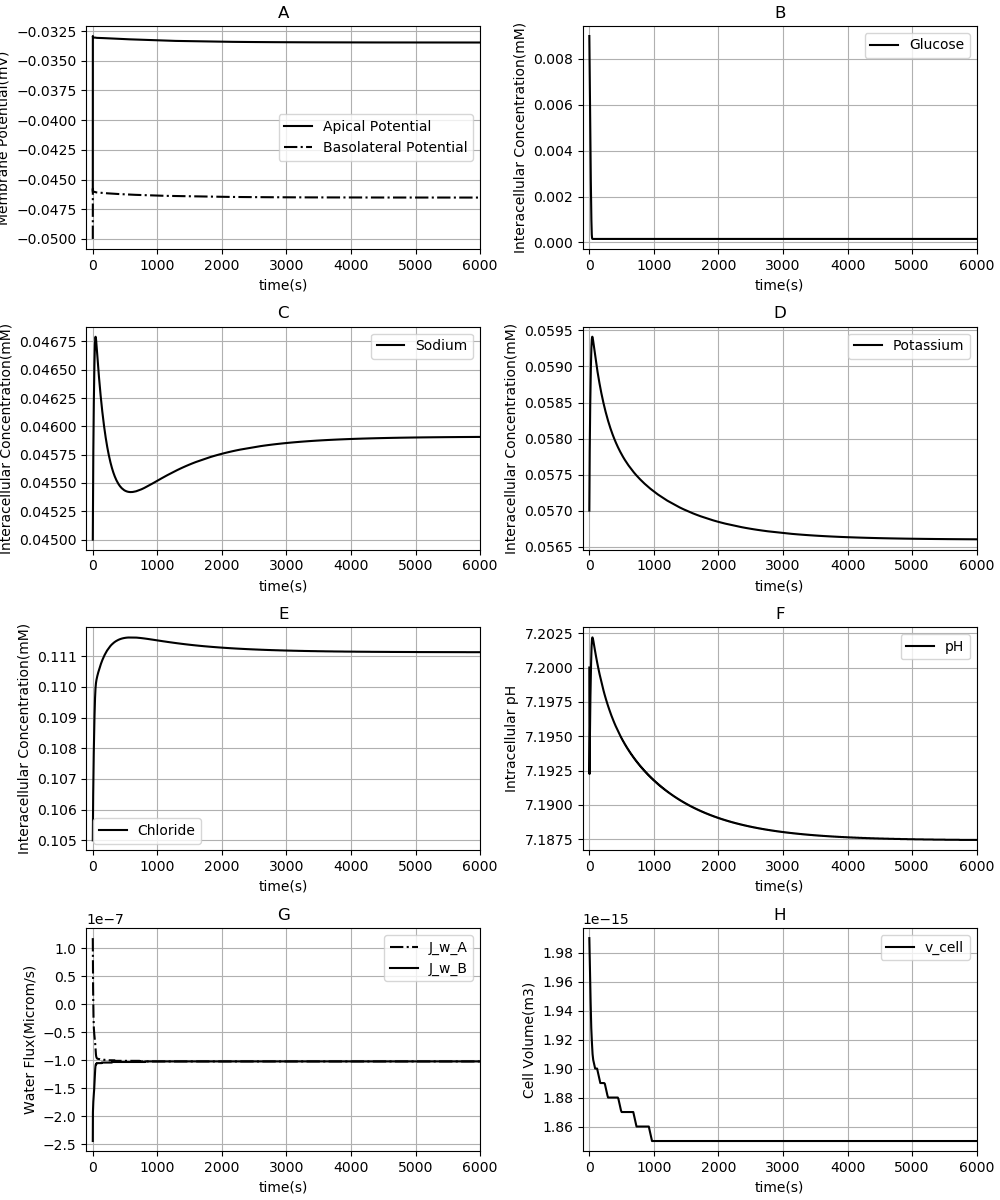
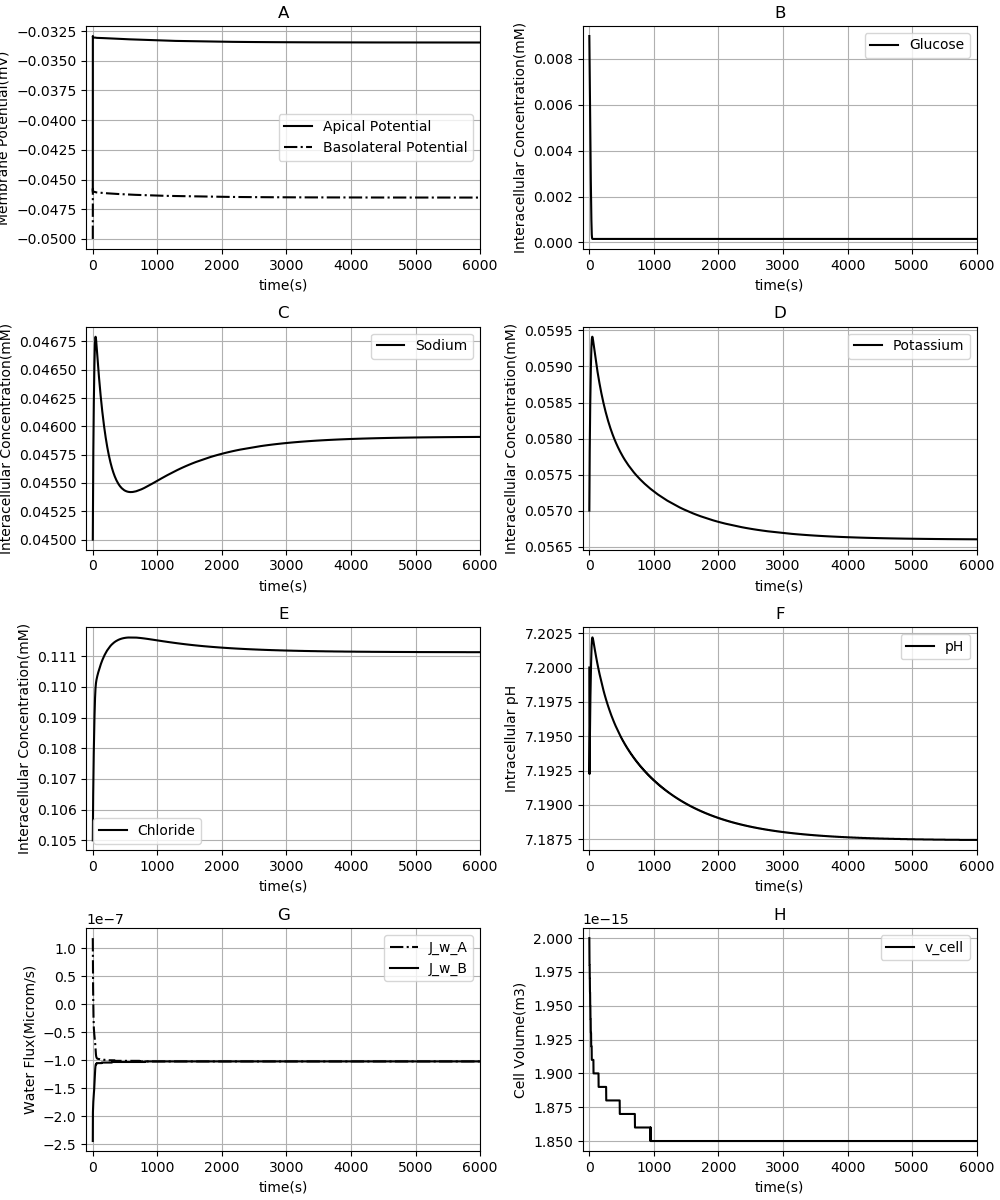
Fig02

Changed region(s): [[0.496, 0.7708, 0.62, 0.9558], [0.62, 0.925, 0.651, 0.9558]]

diff --git a/plot02(06.03.2020).py b/plot02(06.03.2020).py
@@ -171,7 +171,7 @@ plt.ylabel ('Water Flux(Microm/s)')
 plt.title('G')
 plt.legend(loc = 'best')
 
-X, Y10 = plot_func.smooth_func(X,Y10,5,1,kind='linear')
+# X, Y10 = plot_func.smooth_func(X,Y10,5,1,kind='linear')
 plt.subplot(428)
 plt.plot(X, Y10, 'k',  label = 'v_cell')
 
